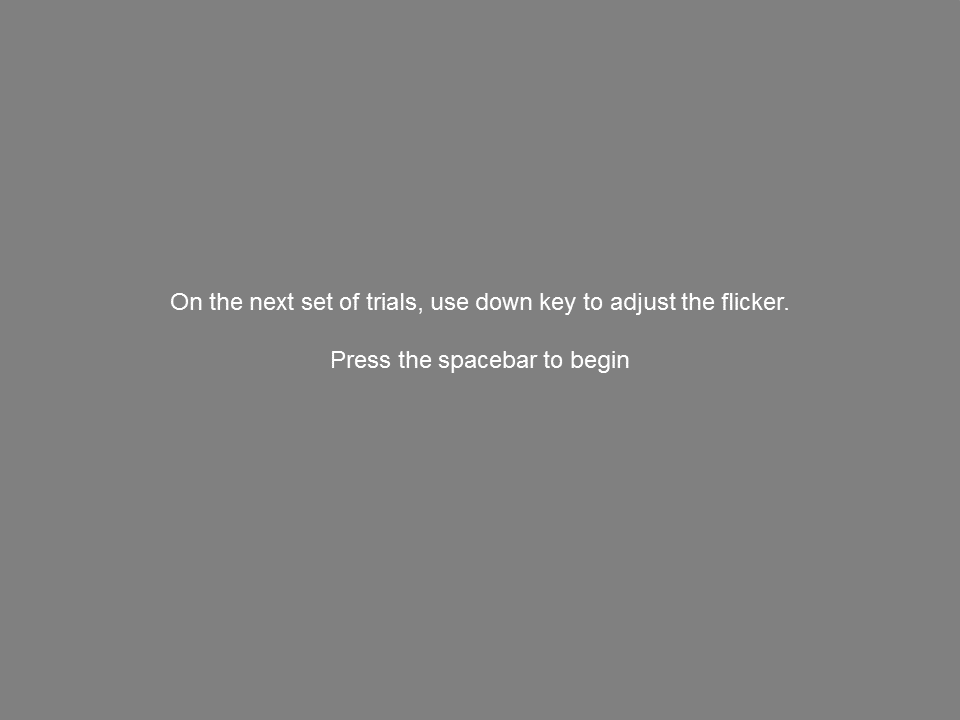
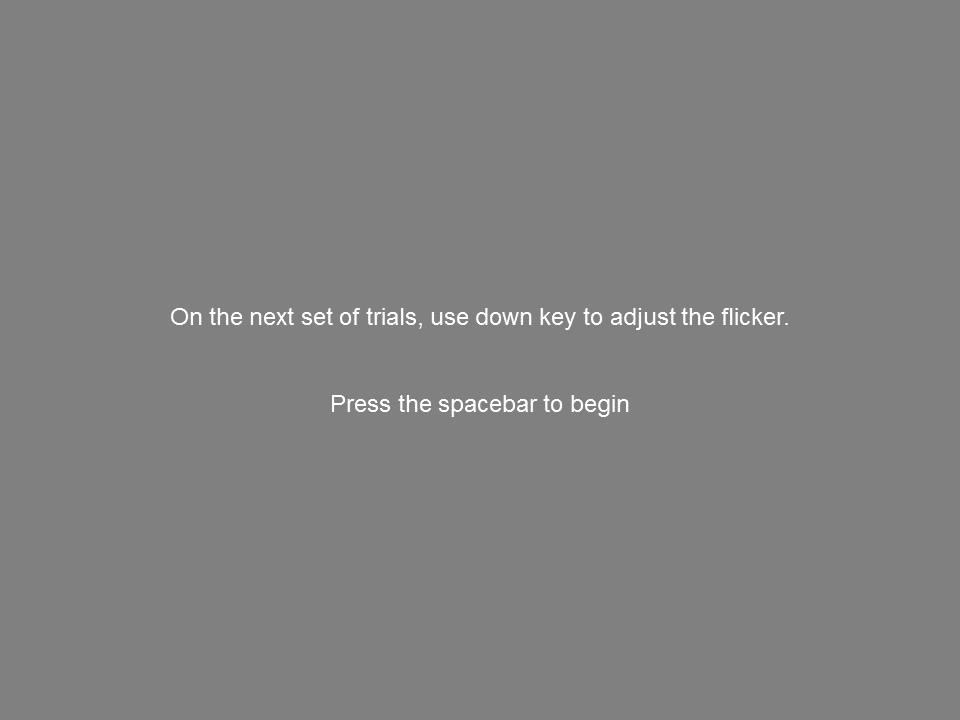
fixed bug with instrucitons

Changed region(s): [[0.1875, 0.3972, 0.8125, 0.4583], [0.3438, 0.55, 0.6562, 0.5806], [0.3438, 0.4889, 0.6562, 0.5194]]

diff --git a/experiment_part.py b/experiment_part.py
@@ -68,7 +68,7 @@ class ExperimentPart(object):
 
     def __str__(self):
         return self.__class__.__name__
-        
+
 
     def show_instructions(self, img):
 
@@ -197,7 +197,7 @@ class ContrastDetection(ExperimentPart):
     def __init__(self, win, _id, colours_dict, params):
 
         super(ContrastDetection, self).__init__(win, _id, params)
-        
+
         self.colours_dict = colours_dict
         self.keys = [self.pos_key, self.neg_key, 'escape']
         self.colheaders = ['#', 'Condition', 'Stimulus', 'GreyValue', 'Response']
@@ -215,22 +215,22 @@ class ContrastDetection(ExperimentPart):
             color = 255,
             text = 'not detected  ←'.decode('UTF-8'),
             pos = (-7, 0))
-            
-            
+
+
     def get_mean_col(self):
-        
+
         if self.responses:
         # take average of positive responses to exprimental trials (exclude catch)
             values = [i[3] for i in self.responses if i[1] and i[4]]
             col = np.mean(values, axis = 0)
         else:
             col = self.colours_dict['fg_grey']
-            
+
         return list(col)
-            
+
 
     def get_colours_dict(self):
-    
+
         self.colours_dict['fg_grey'] = self.get_mean_col()
         return self.colours_dict
 
@@ -287,7 +287,7 @@ class ContrastDetection(ExperimentPart):
 
         logger.info('started experiment')
         core.wait(1)
-        
+
         cur_grey = self.colours_dict['bg_grey'] # at first, not different from background
         i = 0
         detects = 0 # number of times they detected the image when kind == 1
@@ -338,28 +338,28 @@ class IsoluminanceDetection(ExperimentPart):
         self.var_col_lo = colours_dict['bg_col'] + 30 * -self.col_delta
         if any(self.var_col_lo < 0):
             self.var_col_lo = np.zeros(3)
-            
+
         self.var_col_hi = colours_dict['bg_col'] + 30 *  self.col_delta
         if any(self.var_col_hi > 255):
             self.var_col_lo = self.col_delta * (255 / self.col_delta)
-        
+
         self.keys = [self.up_key, self.down_key, 'escape', 'return']
         self.colheaders = ['#', 'Condition', 'Stimulus', 'IsoColour']
 
-        
+
     def get_mean_col(self):
-    
+
         if self.responses:
             values = [i[3] for i in self.responses]
             col = np.mean(values, axis = 0)
         else:
             col = self.colours_dict['bg_col']
-        
+
         return list(col)
 
-        
+
     def get_colours_dict(self):
-    
+
         self.colours_dict['bg_col'] = self.get_mean_col()
         return self.colours_dict
 
@@ -649,7 +649,11 @@ class DividedAttentionExperiment(FreeChoiceExperiment):
 
     def run_block(self, kind, imgs_seq):
 
-        start = self.show_instructions(None)
+        if kind == 'practice':
+            start = self.show_instructions(self.instructions_img_practice)
+        elif kind == 'experimental':
+            start = self.show_instructions(self.instructions_img_exp)
+
         if not start:
             logger.info('did not start block {}'.format(kind))
             return
